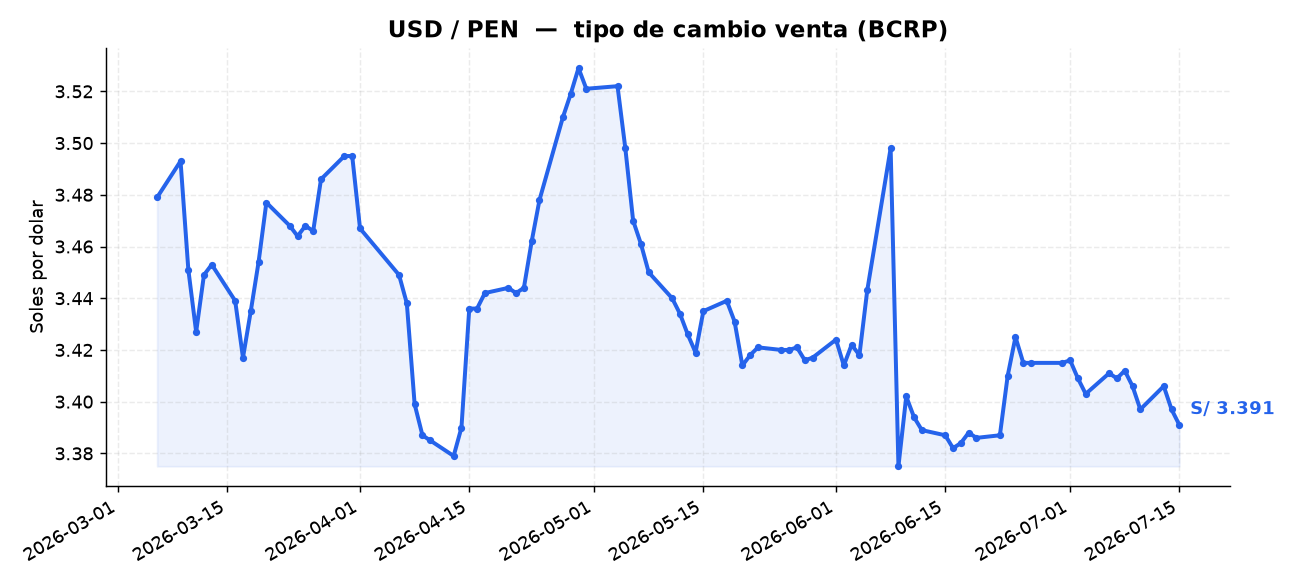
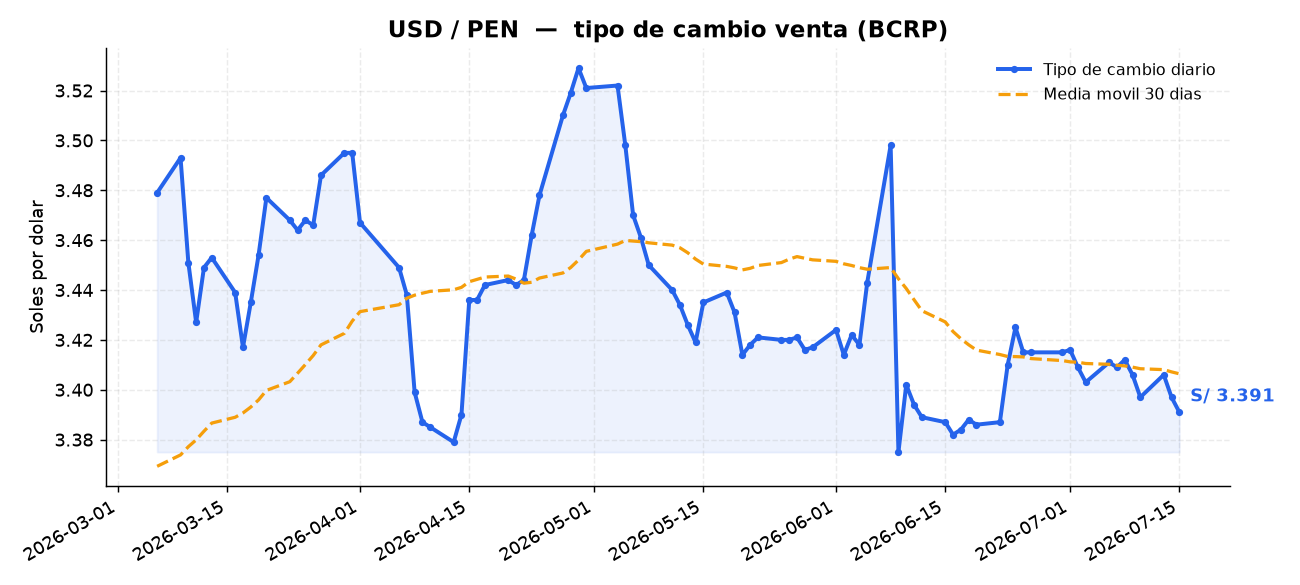
feat: media movil de 30 dias en el grafico + CI de tests
La media movil se calcula sobre el historico completo antes de recortar la
ventana visible, para que los primeros puntos tengan ventana completa.
Se agrega workflow de GitHub Actions que corre los tests en cada push.

diff --git a/src/chart.py b/src/chart.py
@@ -20,7 +20,12 @@ CHART_PATH = Path(__file__).resolve().parent.parent / "charts" / "usd_pen.png"
 
 def render(df: pd.DataFrame, days: int = 90) -> Path:
     """Dibuja los ultimos `days` dias de USD/PEN y devuelve la ruta del PNG."""
-    df = df.sort_values("date").tail(days).copy()
+    df = df.sort_values("date").copy()
+    # Media movil de 30 dias para ver la tendencia sin el ruido diario.
+    # Se calcula ANTES de recortar, para que los primeros puntos del grafico
+    # tengan su ventana completa.
+    df["ma30"] = df["usd_pen"].rolling(window=30, min_periods=5).mean()
+    df = df.tail(days)
     df["date"] = pd.to_datetime(df["date"])
 
     x = df["date"].values
@@ -28,8 +33,12 @@ def render(df: pd.DataFrame, days: int = 90) -> Path:
     baseline = float(df["usd_pen"].min())
 
     fig, ax = plt.subplots(figsize=(10, 4.5), dpi=130)
-    ax.plot(x, y, linewidth=2.2, color="#2563eb", marker="o", markersize=3)
+    ax.plot(x, y, linewidth=2.2, color="#2563eb", marker="o", markersize=3,
+            label="Tipo de cambio diario")
+    ax.plot(x, df["ma30"].values, linewidth=1.8, color="#f59e0b",
+            linestyle="--", label="Media movil 30 dias")
     ax.fill_between(x, y, baseline, alpha=0.08, color="#2563eb")
+    ax.legend(loc="upper right", frameon=False, fontsize=9)
 
     ax.set_title("USD / PEN  —  tipo de cambio venta (BCRP)", fontsize=13, fontweight="bold")
     ax.set_ylabel("Soles por dolar")